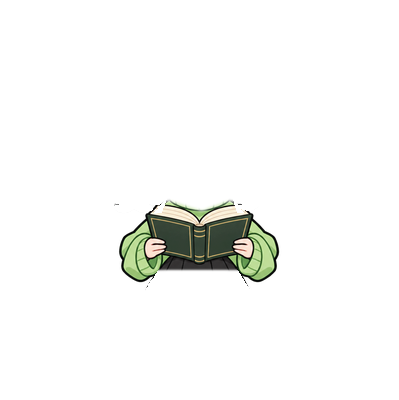
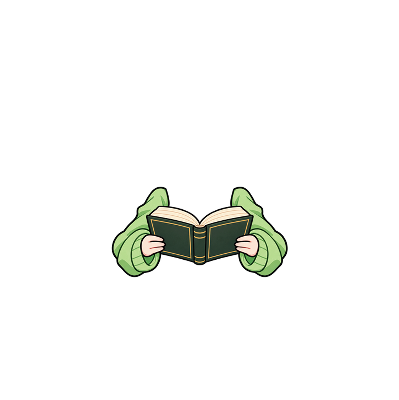
Fix X5 reading sleeve masks and stretch torso contours

Changed region(s): [[0.2707, 0.45, 0.7218, 0.72]]

diff --git a/src/renderer/chibi/x5-activities/player.js b/src/renderer/chibi/x5-activities/player.js
@@ -95,6 +95,11 @@
       // patch is exposed when the overhead sleeves move out of the way.
       ctx.save(); ctx.translate(0, 398); ctx.scale(1, 1 + rise / 214); ctx.translate(0, -398);
       ctx.drawImage(im[`${name}-body`], 0, 0); ctx.restore();
+      if (name === 'read') {
+        // Complete raster sleeves move behind the collar/hair, with their
+        // natural alpha contour. No rectangular sleeve extension patches.
+        ctx.drawImage(im['read-arms'], 0, 12 * (1 - a) - rise);
+      }
       // Original collar underlap covers the seam under a tilting head.
       ctx.drawImage(im.stand, 176, 185, 49, 10, 176, 182 - rise, 49, 13);
       ctx.save(); ctx.translate(199.5, 184 - rise); ctx.rotate(radians(headAngle)); ctx.translate(-199.5, -184);
@@ -111,9 +116,6 @@
       ctx.restore();
       if (name === 'read') {
         const dy = 12 * (1 - a) - rise;
-        // Raster sleeve overlap below the hair; source pixels, no drawn anatomy.
-        for (const x of [124, 240]) ctx.drawImage(im['read-arms'], x, 232, 34, 12, x, 210 + dy, 34, 34);
-        ctx.drawImage(im['read-arms'], 0, dy);
         const turning = [3.3, 7.5].find(start => s.elapsed >= start && s.elapsed < start + .9);
         if (turning !== undefined) {
           const p = (s.elapsed - turning) / .9;

diff --git a/scripts/x5-activities/repair-p1.py b/scripts/x5-activities/repair-p1.py
@@ -1,0 +1,84 @@
+"""Apply the two reviewed P1 raster repairs, after prepare.py.
+
+python repair-p1.py --sources <generated_images/01a166f0-...>
+Contours come from image-tool artwork; this script draws only blend masks.
+"""
+from pathlib import Path
+import argparse
+import json
+import sys
+import numpy as np
+from PIL import Image, ImageFilter
+sys.dont_write_bytecode = True
+from prepare import SIZE, HERE, OUT, mask, rgba_mask, skirt_support
+
+
+def main():
+    parser = argparse.ArgumentParser()
+    parser.add_argument('--sources', type=Path, required=True)
+    args = parser.parse_args()
+    original = Image.open(HERE/'reference.png').convert('RGBA')
+    torso = Image.open(args.sources/'exec-b74432a8-bb32-4185-a16d-8735b56c8143.png').convert('RGBA').resize(SIZE, Image.Resampling.LANCZOS)
+    arms = Image.open(args.sources/'exec-d4d92554-17d2-4688-b63e-050ea608285b.png').convert('RGBA').resize(SIZE, Image.Resampling.LANCZOS)
+    # The image tool enlarged the extracted component. Register the unchanged
+    # book spine/cover anchors back into the original sprite coordinates.
+    arms = arms.transform(SIZE, Image.Transform.AFFINE,
+                          (1/.55, 0, -90/.55, 0, 1/.55, -108/.55),
+                          Image.Resampling.BICUBIC)
+    # Follow the component's own alpha, feathering only the shoulder root
+    # underlap. Never multiply it by a rectangular shirt/book region.
+    sleeve_mask = arms.getchannel('A').filter(ImageFilter.MaxFilter(5)).filter(ImageFilter.GaussianBlur(1.2))
+    arms = rgba_mask(arms, sleeve_mask)
+    arms.save(OUT/'read-arms.png')
+    sleeve_mask.save(HERE/'masks/read-p1-sleeves.png')
+
+    # Preserve the complete original skirt silhouette (including AA), not the
+    # hanging sleeve pixels touching its upper sides. Torso edges are AI raster.
+    skirt = skirt_support(original)
+    # Below the old cuffs there is no arm to remove. Preserve skirt AA and
+    # the first skin rows too; dark-only support would cut a gap at the hem.
+    skirt[295:] = 255
+    lower = rgba_mask(original, Image.fromarray(skirt))
+    region = mask([[(170,207),(229,207),(245,227),(244,260),(155,260),(154,227)]], 1.2)
+    upper = rgba_mask(torso, region)
+    # Only the upper shirt is transferred. The seam falls inside the dark
+    # waistband; source skirt and all leg/boot pixels remain exact.
+    a = np.asarray(upper).copy()
+    a[260:,:,3] = 0
+    upper = Image.fromarray(a)
+    body = Image.alpha_composite(lower, upper)
+    # Original collar/neck stays in its exact position. Blend inside green
+    # fabric below it instead of overlaying two differently registered collars.
+    collar_mask = np.zeros((400,399), dtype='uint8')
+    collar_mask[184:209,169:231] = 255
+    for y in range(209,218):
+        collar_mask[y,169:231] = round(255*(218-y)/9)
+    body = Image.alpha_composite(body, rgba_mask(original, Image.fromarray(collar_mask)))
+    body.save(OUT/'stretch-body.png')
+    body.save(OUT/'read-body.png')
+    region.save(HERE/'masks/torso-p1.png')
+    for name in ['read', 'stretch']:
+        pose = Image.alpha_composite(body, arms) if name == 'read' else body.copy()
+        if name == 'stretch':
+            for side in ['left', 'right']:
+                pose = Image.alpha_composite(Image.open(OUT/f'stretch-{side}.png').convert('RGBA'), pose)
+        pose = Image.alpha_composite(pose, Image.open(OUT/'head.png').convert('RGBA'))
+        pose.save(OUT/f'{name}-key.png')
+        allowed = np.maximum(np.asarray(Image.open(HERE/f'masks/{name}.png')), np.asarray(region))
+        allowed = np.maximum(allowed, collar_mask)
+        if name == 'read':
+            allowed = np.maximum(allowed, np.asarray(sleeve_mask))
+        else:
+            for side in ['left', 'right']:
+                allowed = np.maximum(allowed, np.asarray(Image.open(OUT/f'stretch-{side}.png'))[:,:,3])
+        changed = np.any(np.asarray(pose) != np.asarray(original), axis=2)
+        assert not np.any(changed & (allowed == 0)), name
+        Image.fromarray(allowed).save(HERE/f'masks/{name}.png')
+    report = {'source': 'built-in image_gen; feathered local compositing, no drawn anatomy',
+              'feet_equal': bool(np.array_equal(np.asarray(body)[305:], np.asarray(original)[305:]))}
+    assert report['feet_equal']
+    print(json.dumps(report, indent=2))
+
+
+if __name__ == '__main__':
+    main()

diff --git a/WORKLOG.md b/WORKLOG.md
@@ -3,6 +3,15 @@
 Claude va Codex shu yerga yozadi. Yangi yozuv **eng yuqoriga** qo'shiladi.
 Qoidalar: [AGENTS.md](AGENTS.md).
 
+## 2026-10-23 · Codex · X5 kitob va cho'zilish P1: rastr konturlar tuzatildi
+- Claude'ning eng yuqoridagi 2026-10-22 review'i o'qildi. Faqat `codex/x5-midori-tea`da ikkita P1 tuzatildi. Main integratsiyasi, versiya/build/push yo'q; choy/wave/water va production fayllar o'zgarmadi. Ixtiyoriy P3lar bu ishga olinmadi.
+- Kitob: to'rtburchak yeng crop/cho'zish olib tashlandi. AI ajratgan to'liq yeng/qo'l/kitob komponenti tabiiy alpha va 1.2px feather maska bilan, gavdadan keyin va original yoqa/sochdan oldin chiziladi. Katta chiqqan AI komponent kitob tayanchlariga .55 scale bilan qayta joylandi. Gorizontal kesik, yashil quti burchaklari, yoqa/soch ostidagi uzilish va yubka chap pog'onasi yo'qoldi; yubka kitob qatlamida yo'q. Mavjud sahifa rastri va vaqtlar saqlandi.
+- Cho'zilish: xira erase maskali gavda o'rniga yonlari toza qora konturli AI rastr olindi. Original yoqa, yubka/oyoqlar qayta birlashtirildi; yangi anatomiya yoki qora kontur kodda chizilmadi. Shu gavda kitobda ham eski qo'llar o'rnini tozalaydi. Birinchi runtime tekshiruvda ko'rilgan qo'sh yoqa va etak ostidagi ilk teri qatorlari kesilishi yakuniy dalillardan avval tuzatildi.
+- Built-in image_gen 2 tahrir; aniq prompt/chiqishlar `scripts/x5-activities/p1-prompts.json`; takror tayyorlash `prepare.py`dan keyin `repair-p1.py --sources <01a166f0 generated_images>`. Maskalar scripts ichida. Statik keylarda yangi allowed maska tashqarisida farq0 (assert), y305dan past original RGBA aynan teng. Yangi qora kontur faqat AI PNGdan, yoqa/yubka/oyoq asl rastrdan.
+- Tekshiruv haqiqiy Electron37 `player.js` canvas chiqishiga: har50ms, read261/stretch91faza, har biri native ratio1/2/4. Oldingi nusxa ham aynan shu player orqali alohida chizildi. So'ralgan read0.35/3.95/4.2s, stretch0.5/1.35/3.4s 4xPNGlar avval/keyin yonma-yon; ikkala sahifa aylanishining 10ta4xholati va barcha fazalar contact-sheetda ko'z bilan ko'rildi. Barcha352ta4xkadrda etakROI min alpha250, alpha<245 soni0; baseline716..716.
+- Dalillar: `C:/Users/janob/.codex/visualizations/2026/10/23/01a166f0-92e4-7442-8b8f-f4b80086a68e/x5-p1/`: `{read,stretch}-before-after-{native,2x}.gif`, `*-details-before-after-4x.png`, alohida talab qilingan vaqtlarning full4xPNGsi, `read-both-page-turns-before-after-4x.png`, `*-all-phases.png`, `render-validation.json`, oldin/keyin player states. GIFlar chap=avval/o'ng=keyin;180/360 native canvasdan,4xkichraytirish emas;13.05/4.55s,50ms yakuniy stand sample bilan. GIF palitra va davomiyligi tekshirildi.
+- node --check va git diff --check o'tdi. Bu render/asset tuzatishi; main/preload integratsiyasi va fizik sichqoncha sinovi bu safar qayta qilinmadi. Temp capture/profil/skriptlar tozalandi. Qolgan ish: Shaxzod ko'rinishni baholaydi; main'ga ulashga ruxsat yo'q. Commit: ushbu yozuv bilan `Fix X5 reading sleeve masks and stretch torso contours`.
+
 ## 2026-10-22 · Claude · X5 review: choy P1 tuzatishi (24206f9) va qolgan 4 harakat (ef67525)
 - Ko'rildi: x5-tea-p1 before/after 4x, x5-activities key-poses-4x va {wave,read,water,stretch}-details-4x, player.js'lar. Production fayllar (src/main, preload, index, renderer, chibi.js, manifest, package.json) main bilan bir xil — izolyatsiya to'g'ri. node --check o'tdi.
 - **Choy: ikkala P1 yopildi.** Etakdagi tirqish yo'q, tirsak ostida kontur bor, bug' piyoladan chiqadi, yelka sakrashi olib tashlangan. Yubka o'ng chetida biroz xira dog' qolgan (P3).

diff --git a/src/renderer/chibi/x5-activities/README.md b/src/renderer/chibi/x5-activities/README.md
@@ -65,6 +65,31 @@ production activity/drag/hidden lifecycle'iga alohida ulash va review kerak.
 
 ## Tekshiruv va ko'rik dalillari
 
+### 2026-10-23: kitob va cho'zilish P1
+
+`prepare.py`dan keyin `repair-p1.py --sources <01a166f0 generated_images>`
+ishlatiladi. Ikki yangi AI tahriri va aniq promptlar `p1-prompts.json`da.
+Kitobning to'liq yeng/qo'l komponenti tabiiy alpha konturida ajratildi va
+1.2px feather maska bilan olinadi; katta chiqqan komponent kitob tayanchlariga
+qayta joylandi. To'rtburchak yeng crop'lari olib tashlandi. Qo'llar gavdadan
+keyin, original yoqa/sochdan avval chiziladi. Yubka cheti kitob qatlamiga kirmaydi.
+
+O'qish va cho'zilish gavdalarining yon konturi AI rastrdan; kontur kodda
+chizilmaydi. Original yoqa va yubka/oyoqlar qayta yopishtiriladi. Eski yengga
+tegib turgan yubka yuqorisi asl rastr konturi bo'yicha ajratiladi; y295dan
+past original to'liq saqlanadi. Shu sabab etak ostidagi ilk teri qatorlari ham
+kesilmaydi. Qolgan ikki harakat va choy o'zgartirilmagan.
+
+Yangi dalillar: Codex visualizations/2026/10/23/
+`01a166f0-92e4-7442-8b8f-f4b80086a68e/x5-p1/`.
+`{read,stretch}-before-after-{native,2x}.gif` va
+`*-details-before-after-4x.png`, `read-both-page-turns-before-after-4x.png`.
+Chapda shu tuzatishdan avvalgi player, o'ngda keyingi. Electron37 player.js
+ratio1/2/4dan har50ms: o'qish261 va cho'zilish91faza har ratio uchun.
+4x etakROI barcha352fazada min alpha250, alpha<245 soni0; baseline716.
+Talab qilingan vaqtlar, ikkala varaq aylanishi va barcha fazalar ko'z bilan
+tekshirildi. Quyidagi eski dalillar avvalgi ko'rik tarixidir.
+
 Electron37 player.js'dan har50ms native ratio1/2/4 chiqish olindi: wave61,
 read261, water131, stretch91 — jami544faza. GIFning yangi180/360canvas kadrlari
 alohida chizilgan; 4×PNGni shunchaki kichraytirish emas. Eski taqqoslash
